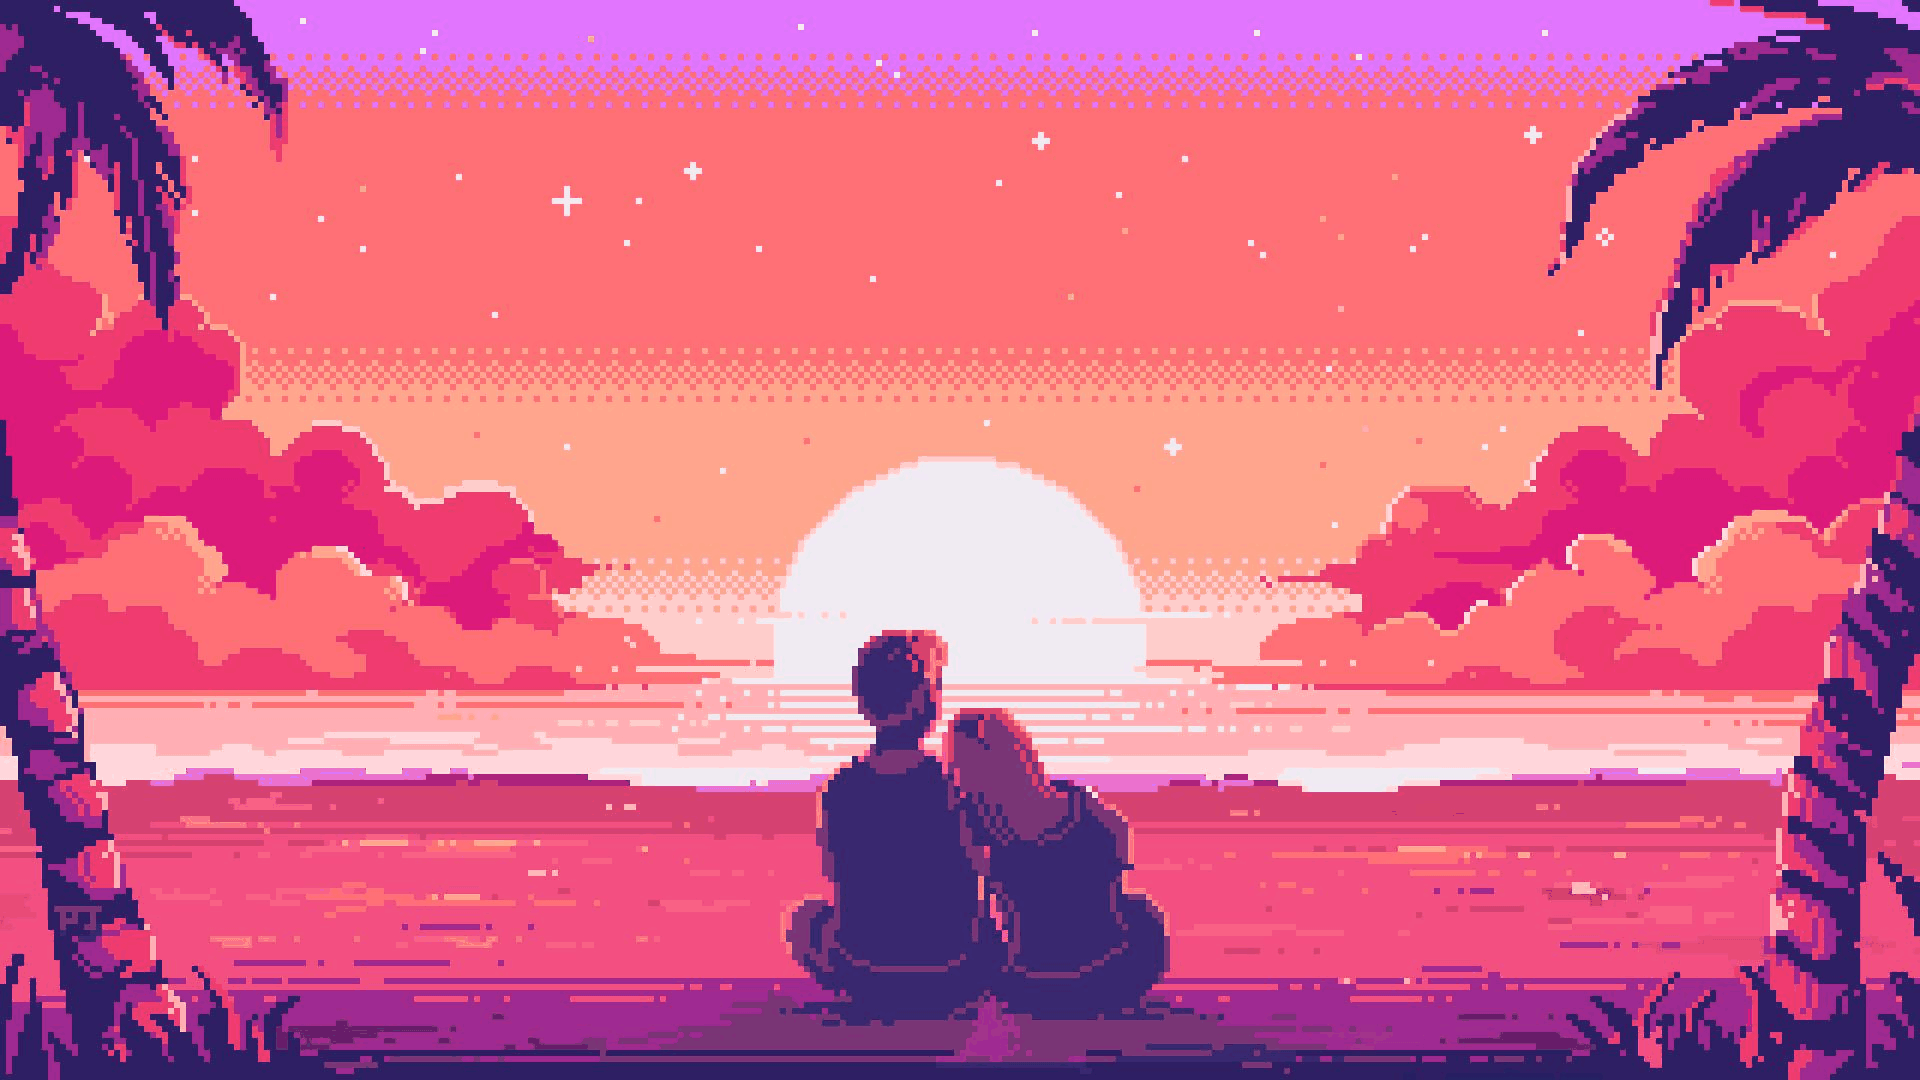
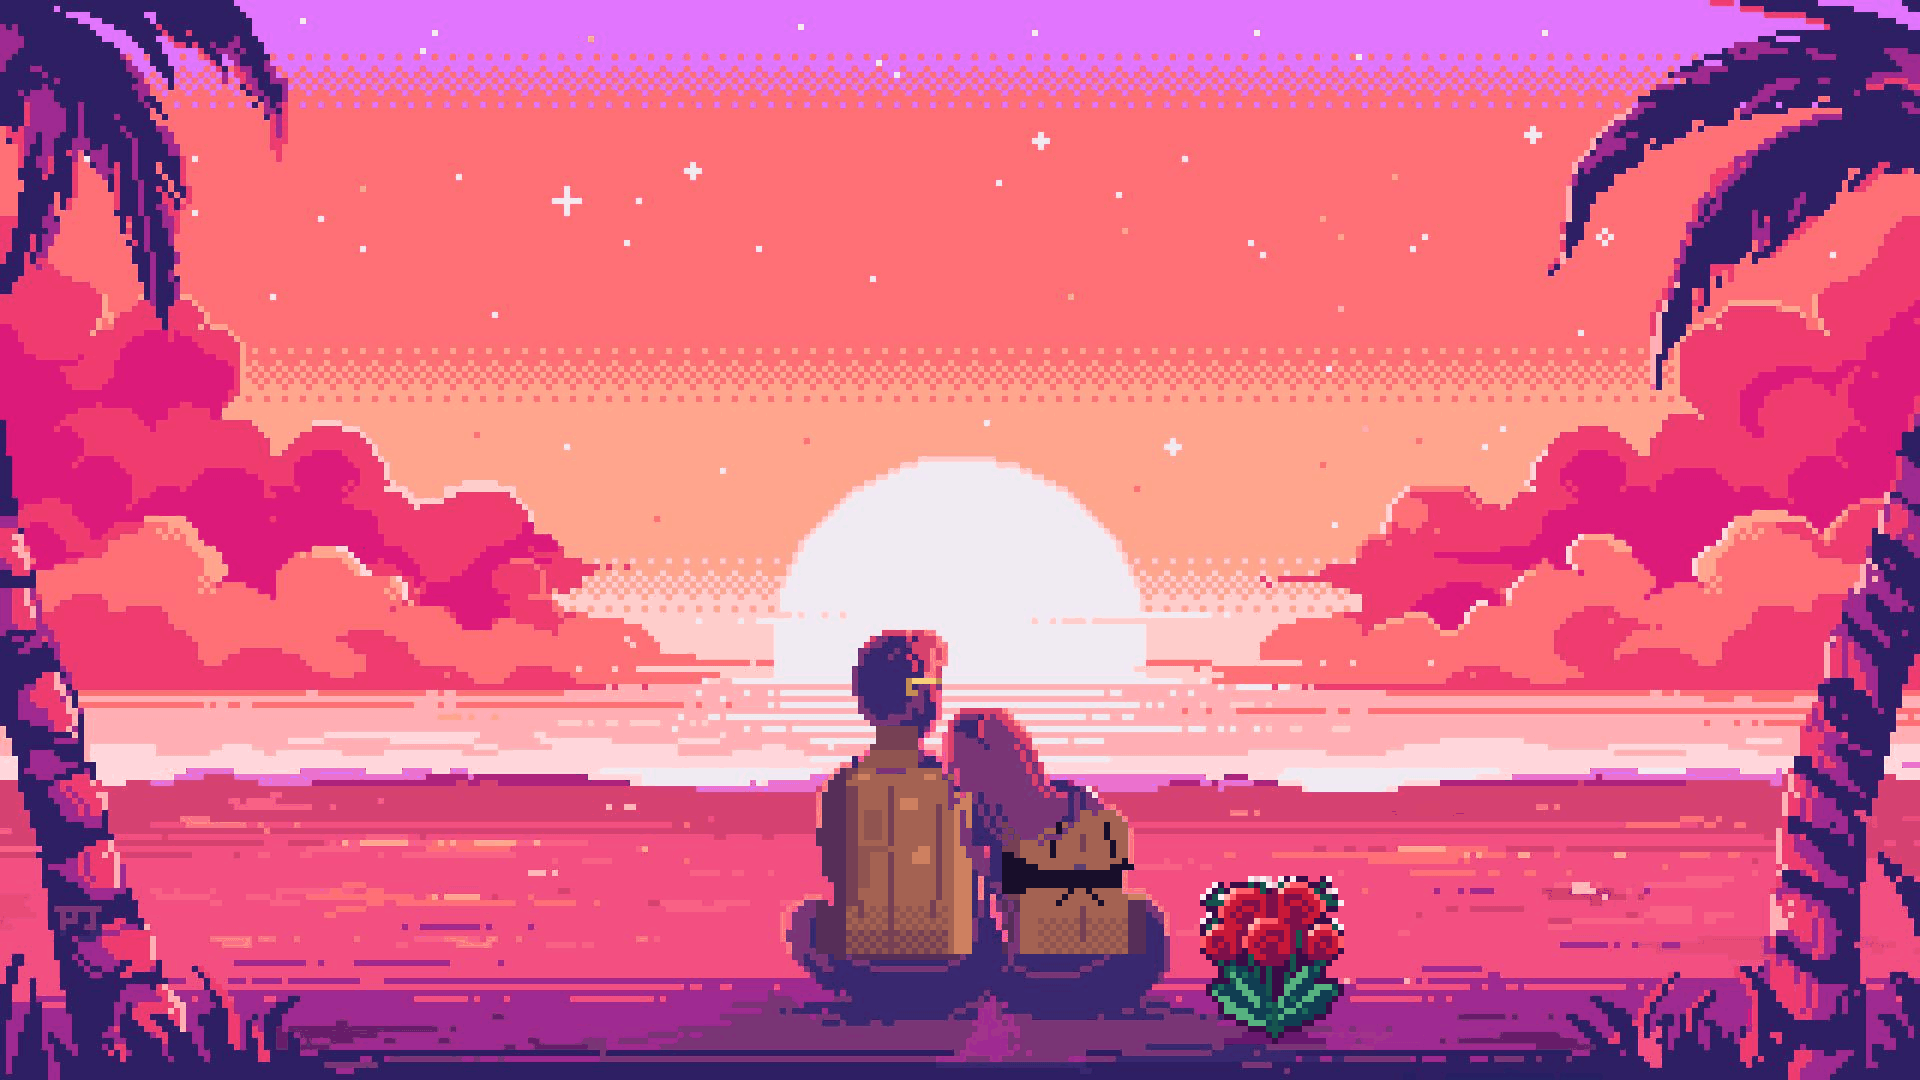
Commit ahora si final

Changed region(s): [[0.4062, 0.6722, 0.5938, 0.8861], [0.625, 0.7944, 0.7188, 0.9778], [0.4688, 0.6111, 0.5, 0.6417]]

diff --git a/index.js b/index.js
@@ -11,7 +11,7 @@ const CONTENT = {
   cumpleTitulo: 'Feliz cumpleaños Nani', cumpleTexto: '',
   cumpleArena: 'Ojalá la vida te devuelva, de tantas maneras bonitas, todo lo bueno que tienes para dar',
   osoPista: 'Toca el oso',
-  ultimaFrase: 'EDITAR: última frase breve y serena',
+  ultimaFrase: 'Una MUJER con todas las letras.',
   playlistTexto: 'Si quieres, aquí está toda la música de esta historia, para escucharla con calma.'
 };
 const ACROSTICO = [['M','Maravillosa'],['U','Única'],['J','Juiciosa'],['E','Encantadora'],['R','Reina']];
@@ -19,10 +19,13 @@ const ACROSTICO = [['M','Maravillosa'],['U','Única'],['J','Juiciosa'],['E','Enc
 // para enlazar la canción exacta y permitir el reproductor integrado. Sin id se usa una búsqueda en Spotify.
 const ETAPAS = {
   amistad: { nombre: 'Amistad', canciones: [
-    { t: 'Umbrella', a: 'Rihanna', id: '49FYlytm3dAAraYgpoJZux' }, { t: 'Rude', a: 'MAGIC!', id: '022uhFttW9NauVhtsXYCI6' }] },
+    { t: 'Umbrella', a: 'Rihanna', id: '49FYlytm3dAAraYgpoJZux' }, { t: 'Rude', a: 'MAGIC!', id: '022uhFttW9NauVhtsXYCI6' },
+    { t: 'Parcera', a: 'Penyair, Alka Produce', id: '724Txk8NEBXqNK7nIvY6MK' },
+    { t: 'Diamonds', a: 'Sofia Black', id: '6jZbtY2FtNDTCxUJRP04WN' }] },
   duda: { nombre: 'Duda', canciones: [
     { t: 'Cosita Linda', a: 'Elena Rose', id: '6tNGSjIgbSp3B2LOWumkJ0' }, { t: 'Sonrisa de Payaso', a: 'Gona', id: '3bLuJFLax7afN8NKoiohbr' },
-    { t: 'El y ella', a: 'Gona', id: '0nE9mOurWKidlO4ZH3vfSU' }] },
+    { t: 'El y ella', a: 'Gona', id: '0nE9mOurWKidlO4ZH3vfSU' },
+    { t: 'orióN', a: 'Boza, ELENA ROSE', id: '4feh4Ak3ZJfC6ibxkNzlkE' }] },
   enamoramiento: { nombre: 'Enamoramiento', canciones: [
     { t: 'Canela', a: 'Nanpa Básico', id: '592R1yDJZI1NUKHpjyLCua' }, { t: 'Lova', a: 'Movimiento Original', id: '4aYhFY9ITenqSodAXyOeGg' },
     { t: 'Querer querernos', a: 'Canserbero', id: '6d3q0F9VNtdxQUTVlRcet6' }, { t: 'Le pido a Dios', a: 'Feid', id: '4TFNKnMWjcMWzpkSwQrrcu' },
@@ -30,8 +33,22 @@ const ETAPAS = {
   nostalgia: { nombre: 'Nostalgia', canciones: [
     { t: 'Paisajes', a: 'Gera MX', id: '7jootLrnGZWnVzHv6qjHqy' }, { t: 'Como dormiste', a: 'Rels B', id: '3fjN3y5x4hN53rykAN2LHQ' },
     { t: 'Stupid Love Story', a: 'Canserbero', id: '2dAyefEhtK9v7dz3Z74thD' }, { t: 'El reloj del corazón', a: 'Gera MX', id: '5q20ChVvFID1D8wL6TSxjm' },
-    { t: 'Luna', a: 'Feid', id: '7bywjHOc0wSjGGbj04XbVi' }] }
+    { t: 'Luna', a: 'Feid', id: '7bywjHOc0wSjGGbj04XbVi' },
+    { t: 'Maquiavélico', a: 'Canserbero', id: '2RYOtMt9aj0p2mP5ofomFd' }, { t: 'Debí tirar más fotos', a: 'Bad Bunny', id: '3sK8wGT43QFpWrvNQsrQya' },
+    { t: 'Roulin', a: 'ELENA ROSE, Eladio Carrion', id: '4CW60MJtsp5GckOQLcC2NK' }] }
 };
+
+// Carrusel de ilustraciones: una entrada por imagen (puedes agregar o quitar las que quieras).
+// Con src vacío, o si el archivo no existe, se ve un recuadro "EDITAR".
+const CINTA = [
+  { src: 'img/ilustracion-1.png', alt: 'Pareja sentada en la parte de atrás de un pickup blanco, viendo las estrellas en un descampado' },
+  { src: 'img/ilustracion-2.png', alt: 'Pareja bailando en una pista al aire libre durante una fiesta de barrio' },
+  { src: 'img/ilustracion-3.png', alt: 'Pareja tomando algo y conversando en una cafetería' },
+  { src: 'img/ilustracion-4.png', alt: 'Vista frontal del pickup: él maneja con una mano y ella le acaricia la nuca' },
+  { src: 'img/ilustracion-5.png', alt: 'Pareja viendo una película al atardecer desde el asiento trasero del carro' },
+  { src: 'img/ilustracion-6.png', alt: 'Silueta de la pareja abrazada y besándose en la habitación de él' },
+  { src: 'img/ilustracion-7.png', alt: 'Pareja decorando juntos un árbol de Navidad' }
+];
 /* ======================================================================= */
 
 const $ = (s, r = document) => r.querySelector(s);
@@ -47,7 +64,7 @@ document.querySelectorAll('[data-t]').forEach(el => {
 /* Reproductor: sugiere y reproduce SOLO tras un toque de la persona (Escuchar, Lista o Continuar) */
 const Player = (() => {
   const root = $('#musica'), panel = $('#mPanel'), lista = $('#mLista'), embed = $('#mEmbed'), tog = $('#mToggle');
-  let etapa = null, sel = 0, ctrl = null, apiP = null, plain = false, quiere = false;
+  let etapa = null, sel = 0, ctrl = null, apiP = null, plain = false, quiere = false, ultCarga = 0;
   const cur = () => ETAPAS[etapa].canciones[sel];
   const link = c => `https://open.spotify.com/track/${c.id}`;
   const pinta = () => {
@@ -79,23 +96,29 @@ const Player = (() => {
     f.src = `https://open.spotify.com/embed/track/${c.id}`; embed.append(f);
   };
   const tocar = () => { if (quiere && ctrl) { quiere = false; ctrl.play(); } };
-  // Repite la canción (o el fragmento de 30 s) cuando termina sola. Una pausa manual no la reinicia.
+  // Al terminar una canción pasa a la siguiente de la etapa (al llegar a la última vuelve a la primera); no repite la misma
+  const siguiente = () => { sel = (sel + 1) % ETAPAS[etapa].canciones.length; pinta(); suena(); };
   const activaBucle = C => {
     let sonaba = false, ult = 0, ultEvento = 0;
-    const repite = () => { sonaba = false; console.log('[musica] repitiendo'); C.seek(0); C.play(); };
     C.addListener('playback_update', e => {
       const d = e.data || {};
       console.log('[musica]', 'pausa:', d.isPaused, 'pos:', d.position, 'dur:', d.duration);   // diagnóstico
       ultEvento = Date.now();
-      if (!d.isPaused) { sonaba = true; ult = d.position; return; }
+      if (Date.now() - ultCarga < 2500) { sonaba = false; ult = 0; return; }   // ignora los eventos de una canción recién cargada
+      if (!d.isPaused) {
+        // el reproductor reinició la misma canción por su cuenta, o llegó al final: pasar a la siguiente
+        if (sonaba && ((d.position < 2000 && ult > 10000) || (d.duration && d.position >= d.duration - 1200))) { sonaba = false; siguiente(); return; }
+        sonaba = true; ult = d.position; return;
+      }
       const termino = sonaba && (d.position <= 1000 || (d.duration && ult >= d.duration - 1500));
       sonaba = false;
-      if (termino) repite();
+      if (termino) siguiente();
     });
-    // Si la reproducción se corta sin avisar (dejan de llegar eventos mientras sonaba), también repite
-    setInterval(() => { if (sonaba && Date.now() - ultEvento > 3000) repite(); }, 1000);
+    // Si la reproducción se corta sin avisar (dejan de llegar eventos mientras sonaba), también pasa a la siguiente
+    setInterval(() => { if (sonaba && Date.now() - ultEvento > 3000) { sonaba = false; siguiente(); } }, 1000);
   };
   const suena = () => {
+    ultCarga = Date.now();
     const c = cur(), uri = `spotify:track:${c.id}`; quiere = true;
     if (plain) return plano(c);
     if (ctrl) { const p = ctrl.loadUri(uri); p && p.then && p.then(tocar); return; }
@@ -167,3 +190,87 @@ oso.addEventListener('click', () => {
 
 /* Al llegar al final, el fondo cambia al cielo estrellado */
 new IntersectionObserver(es => es.forEach(e => document.body.classList.toggle('noche', e.isIntersecting)), { threshold: 0.2 }).observe($('#cielo'));
+
+/* Carrusel: la ilustración actual va al centro, grande; la anterior y la siguiente, más pequeñas a los lados */
+(() => {
+  const host = $('#carrusel'), lista = $('#cinta');
+  if (!host || !lista || !CINTA.length) return;
+  const prev = $('#carPrev'), next = $('#carNext'), cont = $('#carCont');
+  const N = CINTA.length, GAP = 18, LADO = 0.68;   // GAP: separación en px · LADO: tamaño de las vecinas (0.68 = 68 %)
+  const pad = n => String(n + 1).padStart(2, '0');
+  let idx = 0;
+
+  const vacia = (li, i) => {
+    li.querySelector('img')?.remove();
+    if (!li.querySelector('.vacia')) li.insertAdjacentHTML('afterbegin', `<span class="vacia">EDITAR<br>ilustración ${i + 1}</span>`);
+  };
+
+  lista.innerHTML = CINTA.map((f, i) => `<li class="slide" role="group" aria-roledescription="diapositiva" aria-label="${i + 1} de ${N}">${f.src
+    ? `<img src="${f.src}" alt="${f.alt}" draggable="false" decoding="async">`
+    : `<span class="vacia">EDITAR<br>ilustración ${i + 1}</span>`}<small>${pad(i)}</small></li>`).join('');
+  const slides = [...lista.children];
+
+  // cada imagen conserva su proporción real (las hay verticales y casi cuadradas)
+  slides.forEach((li, i) => {
+    const img = li.querySelector('img');
+    if (!img) return;
+    const ajusta = () => { li.style.setProperty('--r', img.naturalWidth / img.naturalHeight); poner(); };
+    img.addEventListener('load', ajusta);
+    img.addEventListener('error', () => { vacia(li, i); poner(); });
+    if (img.complete) img.naturalWidth ? ajusta() : vacia(li, i);
+  });
+
+  const dAnt = slides.map(() => null);               // posición anterior de cada ilustración (para detectar el salto de un extremo al otro)
+  function poner() {
+    if (!host.clientWidth) return;                   // la pantalla aún está oculta: se vuelve a calcular al mostrarse
+    const ancho = slides.map(li => li.offsetWidth);
+    slides.forEach((li, i) => {
+      // distancia circular al centro: después de la última viene la primera, y antes de la primera, la última
+      let d = ((i - idx) % N + N) % N; if (d > N / 2) d -= N;
+      const a = Math.abs(d), dir = Math.sign(d), esc = a === 0 ? 1 : LADO;
+      const x = a === 0 ? 0 : dir * (ancho[idx] / 2 + GAP + ancho[i] * LADO / 2 + (a - 1) * (ancho[i] * LADO + GAP));
+      const salto = dAnt[i] !== null && Math.abs(d - dAnt[i]) > 1;   // cruza de un lado al otro: se coloca sin animar
+      if (salto) li.style.transition = 'none';
+      li.style.transform = `translateX(calc(-50% + ${x}px)) scale(${esc})`;
+      if (salto) { void li.offsetWidth; li.style.transition = ''; }
+      dAnt[i] = d;
+      li.style.zIndex = String(10 - a);
+      li.classList.toggle('actual', a === 0);
+      li.classList.toggle('vecina', a === 1);
+      li.classList.toggle('lejos', a > 1);
+      li.toggleAttribute('inert', a > 1);
+      if (a === 0) li.removeAttribute('aria-hidden'); else li.setAttribute('aria-hidden', a > 1 ? 'true' : 'false');
+    });
+    cont.textContent = `${pad(idx)} / ${pad(N - 1)}`;
+    prev.disabled = next.disabled = N < 2;          // es circular: nunca se bloquea (salvo que haya una sola imagen)
+  }
+
+  const ir = i => { if (N < 2) return; idx = ((i % N) + N) % N; poner(); };
+  prev.onclick = () => ir(idx - 1);
+  next.onclick = () => ir(idx + 1);
+  slides.forEach((li, i) => li.addEventListener('click', () => {
+    const d = ((i - idx) % N + N) % N;
+    if (d === 1 || d === N - 1) ir(i);             // solo las vecinas (la siguiente y la anterior, incluso al dar la vuelta)
+  }));
+
+  // teclado (flechas) cuando el carrusel tiene el foco
+  host.addEventListener('keydown', e => {
+    const k = { ArrowLeft: idx - 1, ArrowRight: idx + 1 }[e.key];
+    if (k === undefined) return;
+    e.preventDefault(); ir(k);
+  });
+
+  // deslizar con el dedo o el ratón
+  let x0 = null;
+  host.addEventListener('pointerdown', e => { x0 = e.clientX; });
+  host.addEventListener('pointerup', e => {
+    if (x0 !== null && Math.abs(e.clientX - x0) > 45) ir(idx + (e.clientX < x0 ? 1 : -1));
+    x0 = null;
+  });
+  host.addEventListener('pointercancel', () => { x0 = null; });
+
+  // recalcula al cambiar el tamaño de la ventana o cuando la pantalla pasa de oculta a visible
+  new ResizeObserver(poner).observe(host);
+  poner();
+  requestAnimationFrame(() => requestAnimationFrame(() => lista.classList.add('listo')));   // activa las transiciones después del primer cálculo
+})();

diff --git a/index.css b/index.css
@@ -203,3 +203,30 @@ section:focus{outline:none}
 .px-arena{position:absolute;left:50%;bottom:1.2rem;transform:translateX(-50%);width:min(34rem,calc(100% - 2rem));margin:0;text-align:center;font-family:var(--f-pix);font-size:clamp(.55rem,1.4vw,.85rem);line-height:2;color:#f6dfaa;text-shadow:.12em .12em 0 #302b43}
 .s-cumple .texto{margin:0 auto;padding:3rem 1.5rem 0;max-width:44rem}
 .s-cumple .pasos{padding:2rem 0 9rem}
+
+@media (min-width:1000px){.px-arena{left:58%;width:min(28rem,calc(100% - 2rem))}}
+
+/* Cinta de fotos (rollo de cámara) */
+.cinta{position:relative;width:100%;margin-top:3rem;padding:2rem 0 1.8rem;background:#120e1c}
+.cinta::before,.cinta::after{content:"";position:absolute;left:0;right:0;height:.7rem;background:repeating-linear-gradient(90deg,transparent 0 .6rem,#d9cba8 .6rem 1.2rem,transparent 1.2rem 1.8rem)}
+.cinta::before{top:.45rem}.cinta::after{bottom:.45rem}
+
+/* Carrusel: una ilustración grande al centro y las vecinas más pequeñas a los lados */
+.carrusel{position:relative;overflow:hidden;touch-action:pan-y;--h:clamp(14rem,min(60svh,112vw),34rem);padding:1.4rem 0 1.2rem}
+.carrusel:focus-visible{outline:3px solid var(--amar);outline-offset:-3px}
+.rollo{list-style:none;margin:0;padding:0;position:relative;height:var(--h)}
+.slide{position:absolute;left:50%;top:0;height:var(--h);width:calc(var(--h) * var(--r,.8));max-width:86vw;transform-origin:center;
+  background:#2a2238;border:3px solid #3b3050;opacity:.7;filter:brightness(.62) saturate(.85);cursor:pointer;user-select:none;
+  transition:transform .6s cubic-bezier(.3,.7,.2,1),opacity .6s,filter .6s,border-color .4s,box-shadow .4s}
+.rollo:not(.listo) .slide{transition:none}
+.slide.actual{opacity:1;filter:none;cursor:default;border-color:var(--amar);box-shadow:0 0 0 3px #000a,0 14px 38px #000c}
+.slide.lejos{opacity:0;pointer-events:none}
+.slide img{display:block;width:100%;height:100%;object-fit:cover;-webkit-user-drag:none}
+.slide .vacia{position:absolute;inset:0;display:grid;place-items:center;text-align:center;font-family:var(--f-pix);font-size:.6rem;line-height:2;color:#8f7fb0;border:2px dashed #5a4a7a;margin:.5rem}
+.slide small{position:absolute;right:.5rem;bottom:.35rem;font-family:var(--f-pix);font-size:.55rem;color:#d9cba8;text-shadow:1px 1px 0 #120e1c}
+.car-ctrl{display:flex;align-items:center;justify-content:center;gap:1.2rem;position:relative;z-index:1;padding-top:.4rem}
+.car-btn{font:inherit;font-size:1.7rem;line-height:1;width:3.1rem;height:3.1rem;padding:0 0 .15rem;border-radius:50%;color:#fff;background:#000b;border:2px solid #fff;cursor:pointer}
+.car-btn:hover:not(:disabled){background:var(--amar);color:var(--negro);border-color:var(--amar)}
+.car-btn:disabled{opacity:.3;cursor:default}
+.car-cont{font-family:var(--f-pix);font-size:.7rem;color:#d9cba8;min-width:6.5rem;text-align:center}
+@media (prefers-reduced-motion:reduce){.slide{transition:none}}

diff --git a/index.html b/index.html
@@ -60,6 +60,16 @@
     <p class="px-arena" data-t="cumpleArena"></p>
   </div>
   <div class="texto"><p data-t="cumpleTexto"></p></div>
+  <div class="cinta" role="region" aria-roledescription="carrusel" aria-label="Ilustraciones">
+    <div id="carrusel" class="carrusel" tabindex="0" aria-label="Usa las flechas del teclado para cambiar de ilustración">
+      <ul id="cinta" class="rollo"></ul>
+    </div>
+    <div class="car-ctrl">
+      <button type="button" id="carPrev" class="car-btn" aria-label="Ilustración anterior">&#8249;</button>
+      <span id="carCont" class="car-cont" aria-live="polite"></span>
+      <button type="button" id="carNext" class="car-btn" aria-label="Ilustración siguiente">&#8250;</button>
+    </div>
+  </div>
 </section>
 
 <section id="cielo" data-scene="cielo" class="s-cielo">
